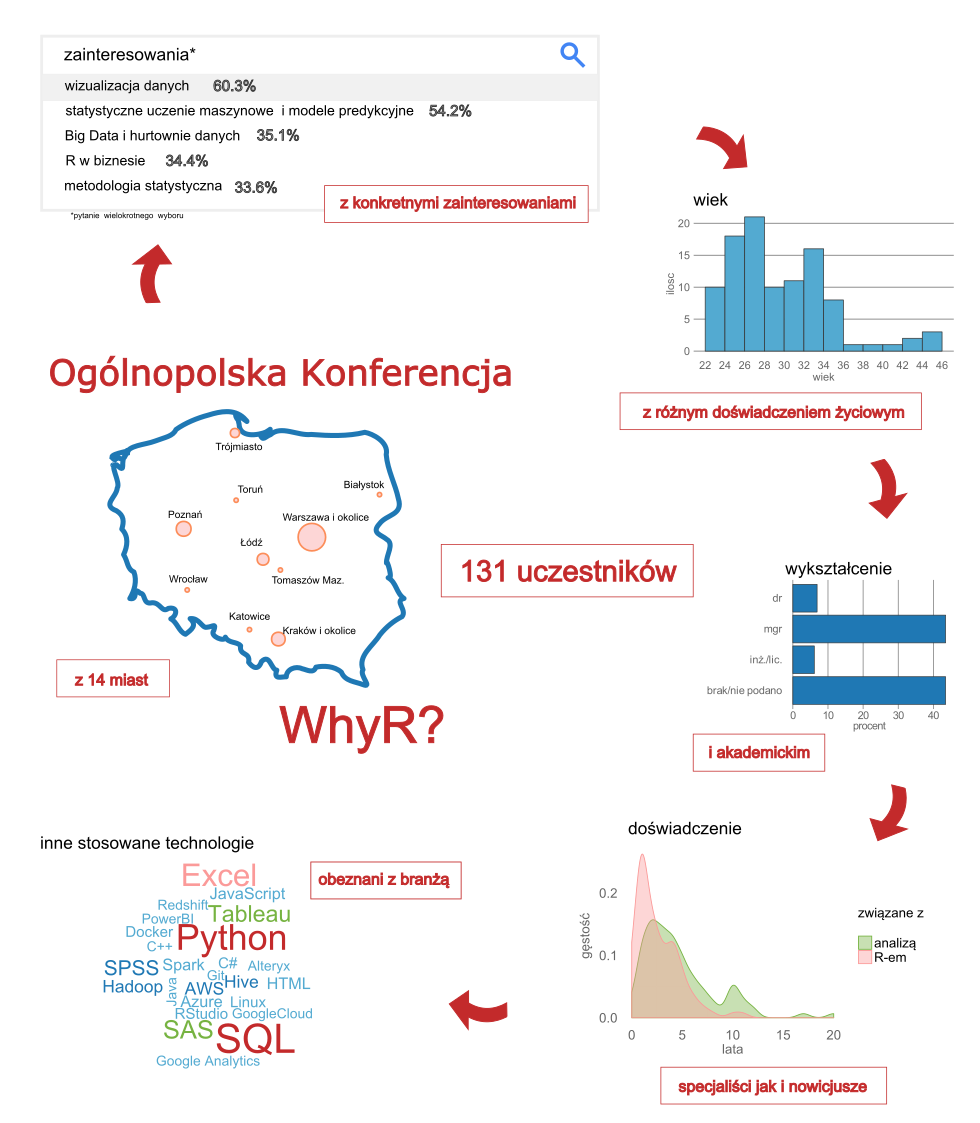
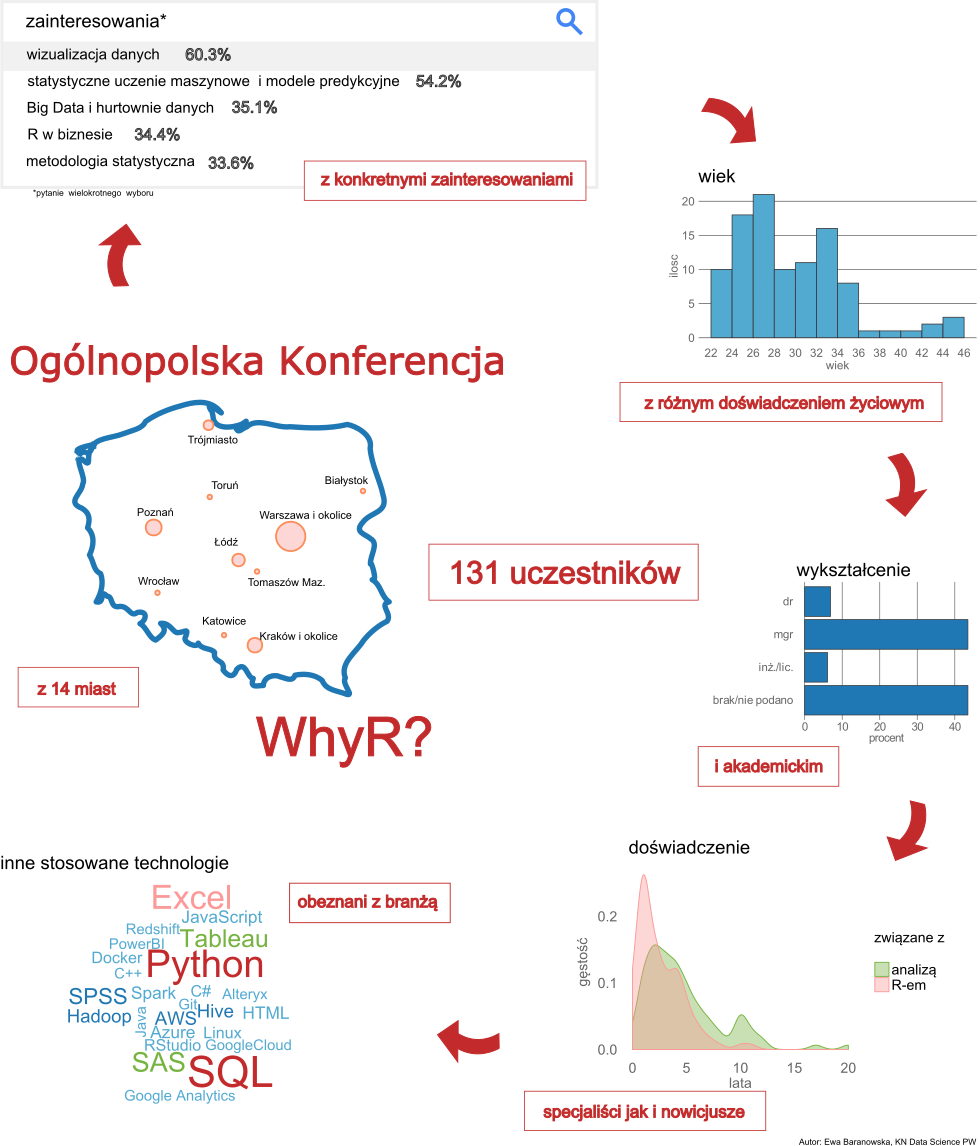
Add files via upload

diff --git a/calosc.html b/calosc.html
@@ -222,7 +222,7 @@ g_start
 .append("text")
 .attr("x", width-margin.left)
 .attr("y", height +300)
-.text("Projekt: Ewa Baranowska, KN Data Science PW")
+.text("Autor: Ewa Baranowska, KN Data Science PW")
 .style("font-size", "8px")
 .attr("text-anchor", "middle")
 
@@ -444,6 +444,13 @@ var zrodlo = tytuly.append("text")
               .style("font-size", "10px") 
               .text("Źródło: WhyR - ankiety, RDocumentation");
 
+ var autor = tytuly.append("text")
+              .attr("x", margin.left+ width)         
+              .attr("y", height+margin.top+ margin.bottom*(2/3))
+              .attr("text-anchor", "end")
+              .style("font-size", "8px")
+              .text("Autor: Ewa Baranowska, KN Data Science PW");   
+
 
 
 var pomoc = svg.append("g").attr("class", "pomoc")
@@ -660,7 +667,7 @@ function renderGraph() {
 
   var xAxisG = g.append("g")
                   .attr("class", "axis x") 
-                  .attr("transform", "translate(0," + height + ")")
+                  .attr("transform", "translate(0," + (height-30) + ")")
 
   // tytul osi X
   xAxisG.append("text")
@@ -982,6 +989,17 @@ var zrodlo = tytuly.append("text")
               .attr("y", heightStart+margin.top+ margin.bottom*(2/3))
               .style("font-size", "10px") 
               .text("Źródło: WhyR - ankiety");
+
+var autor = tytuly.append("text")
+              .attr("x", margin.left+ width)         
+              .attr("y", heightStart+margin.top+ margin.bottom*(2/3))
+              .attr("text-anchor", "end")
+              .style("font-size", "8px")
+              .text("Autor: Ewa Baranowska, KN Data Science PW");
+
+
+
+
 
 var pomoc = svg.append("g").attr("class", "pomoc")
               .attr("transform","translate(0,10)")
@@ -1638,7 +1656,9 @@ var czyStat = false;
 
         // zmiana rozmiaru okna głownego
         svg.attr("height", height + margin.top + margin.bottom)
+
         zrodlo.attr("y", height+margin.top+ margin.bottom*(2/3))
+        autor.attr("y", height+margin.top+ margin.bottom*(2/3))
 
         d3.select(this).style("stroke", "red");
         d3.selectAll(".warsztaty.rano g.glowna")
@@ -1666,6 +1686,7 @@ var czyStat = false;
 
         svg.attr("height", heightStart + margin.top + margin.bottom)
         zrodlo.attr("y", heightStart+margin.top+ margin.bottom*(2/3))
+        autor.attr("y", heightStart+margin.top+ margin.bottom*(2/3))
          
         d3.select(this).style("stroke", "black");
         d3.selectAll(".warsztaty.rano g.glowna")
